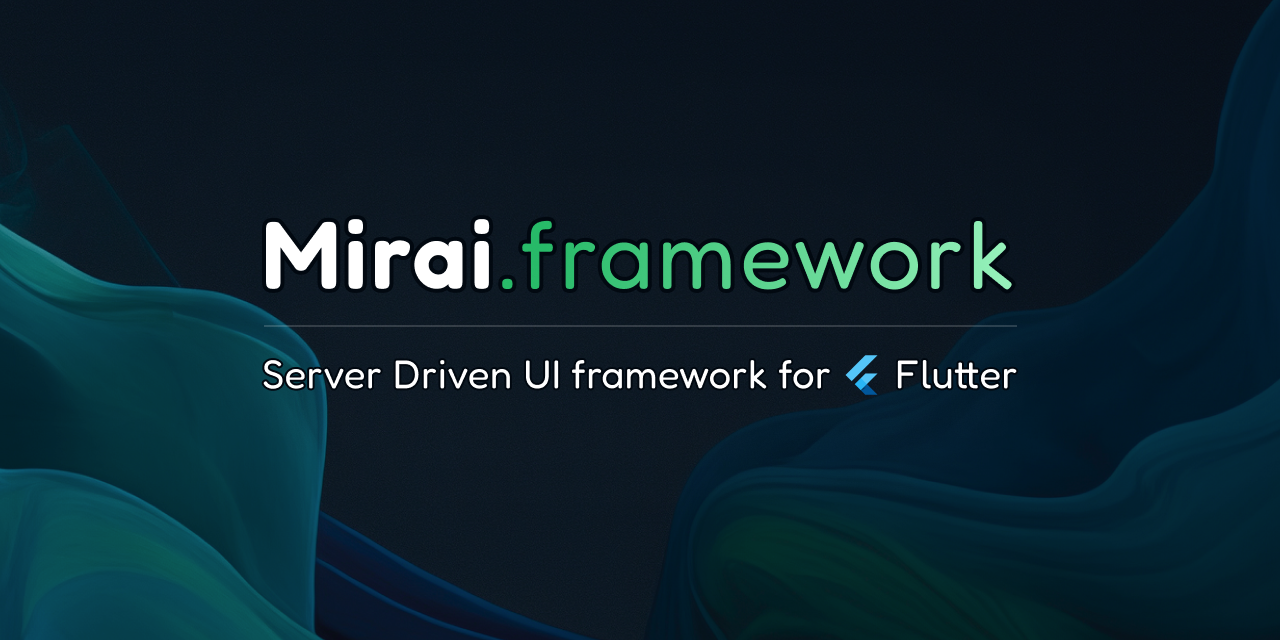
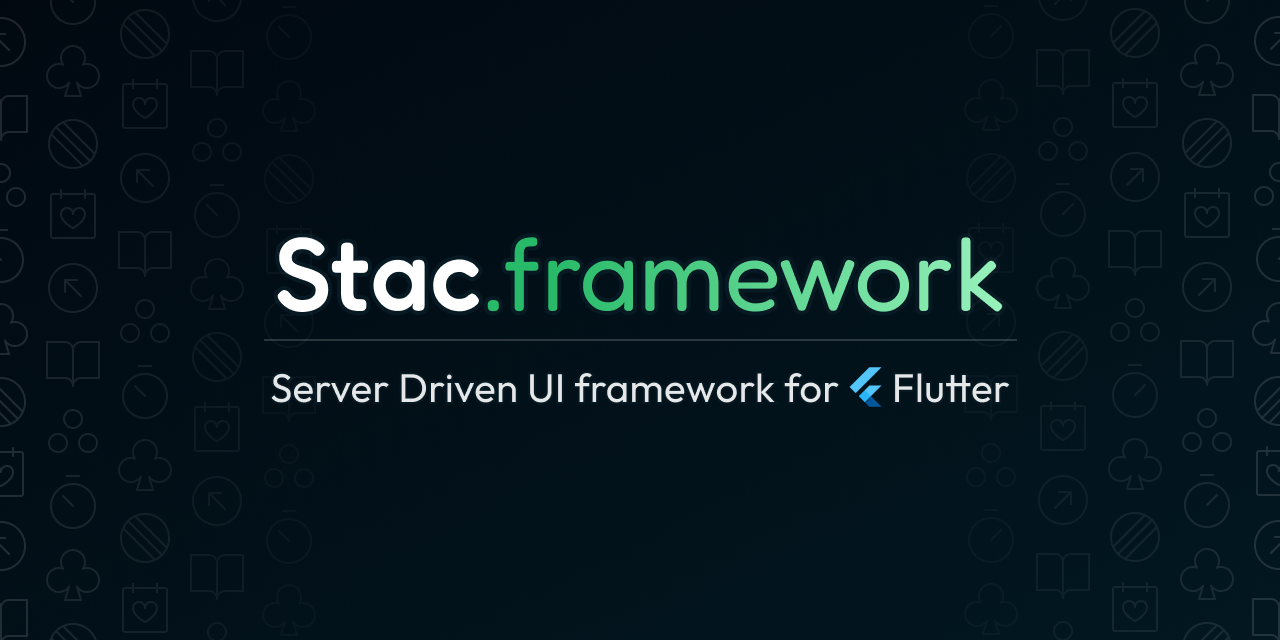
feat: Update assets

diff --git a/packages/stac/README.md b/packages/stac/README.md
@@ -421,7 +421,7 @@ Check out the [Stac Gallery](https://github.com/StacDev/stac/tree/dev/examples/s
 </a>
 
 <a href="https://bettrdo.com/">
-  <img src="https://github.com/StacDev/StacDev/blob/dev/assets/companies/bettrdo.jpg" alt="Job Hunt" height="100"/>
+  <img src="https://github.com/StacDev/stac/blob/dev/assets/companies/bettrdo.jpg" alt="BettrDo" height="100"/>
 </a>
 
 ## Maintainers